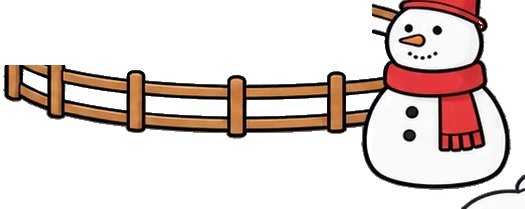
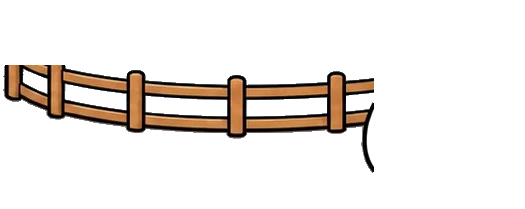
광장: 눈사람 근처에서 캐릭터가 숨던 것 — 지나가는 손님은 늘 눈사람 앞으로(눈사람 y를 손님 길 위로), 스케이트 타원을 줄여 눈사람 뒤로 안 감, 펜스 앞 겹에서 옛 눈사람 조각 뺌 (web/plaza/scene.json, tools/make_plaza_rink.py)
Claude-Session: https://claude.ai/code/session_013gkWdjqDwwMfs8SrUNHEXQ

diff --git a/tools/make_plaza_rink.py b/tools/make_plaza_rink.py
@@ -1,6 +1,6 @@
 #!/usr/bin/env python3
 """크리스마스 광장 스케이트장 앞 겹 (XMAS_PLAZA_PLAN.md 3-10).
-배경 그림의 스케이트장 앞쪽 펜스(+ 오른쪽 눈사람)만 잘라 web/plaza/rink-front-day.webp · rink-front-night.webp로.
+배경 그림의 스케이트장 앞쪽 펜스만 잘라(눈사람은 사계절 광장에서 따로 소품) web/plaza/rink-front-day.webp · rink-front-night.webp로.
 스케이트 타는 손님을 그 뒤에 그리고 이 겹을 위에 얹으면 펜스 너머로 보인다.
 고르기는 낮 그림 색으로(펜스 갈색·외곽선 진한 색·눈사람 흰색·빨강) 하고, 같은 자리 픽셀을 밤 그림에서도 똑같이 자른다(밤 그림은 낮과 구도가 같음).
 자르는 곳: BOX 안에서 — 앞 펜스 띠(y ≥ FRONT_Y), 눈사람(x ≥ SNOW_X). 바닥(회색 돌)·얼음(하늘색)은 빼고."""
@@ -28,7 +28,7 @@ ground = (sat < 30) & (mx >= 90) & (mx <= 228)
 yy, xx = np.mgrid[y0:y1, x0:x1]
 zone = yy >= FRONT_Y  # 왼쪽 끝 기둥은 안 자름(손님이 거기까지 안 감 — 자르면 뒤쪽 펜스와 어긋나 보임)
 snow = xx >= SNOW_X
-keep = (a > 40) & ~ice & ~ground & ((zone & (brown | dark)) | (snow & (brown | dark | red | white)))
+keep = (a > 40) & ~ice & ~ground & zone & ~snow & (brown | dark)  # 눈사람은 따로 소품(props/snowman)이라 뺌
 # 외곽선이 끊기지 않게 한 칸 넓힘
 k = keep.copy()
 k[1:] |= keep[:-1]; k[:-1] |= keep[1:]; k[:, 1:] |= keep[:, :-1]; k[:, :-1] |= keep[:, 1:]
